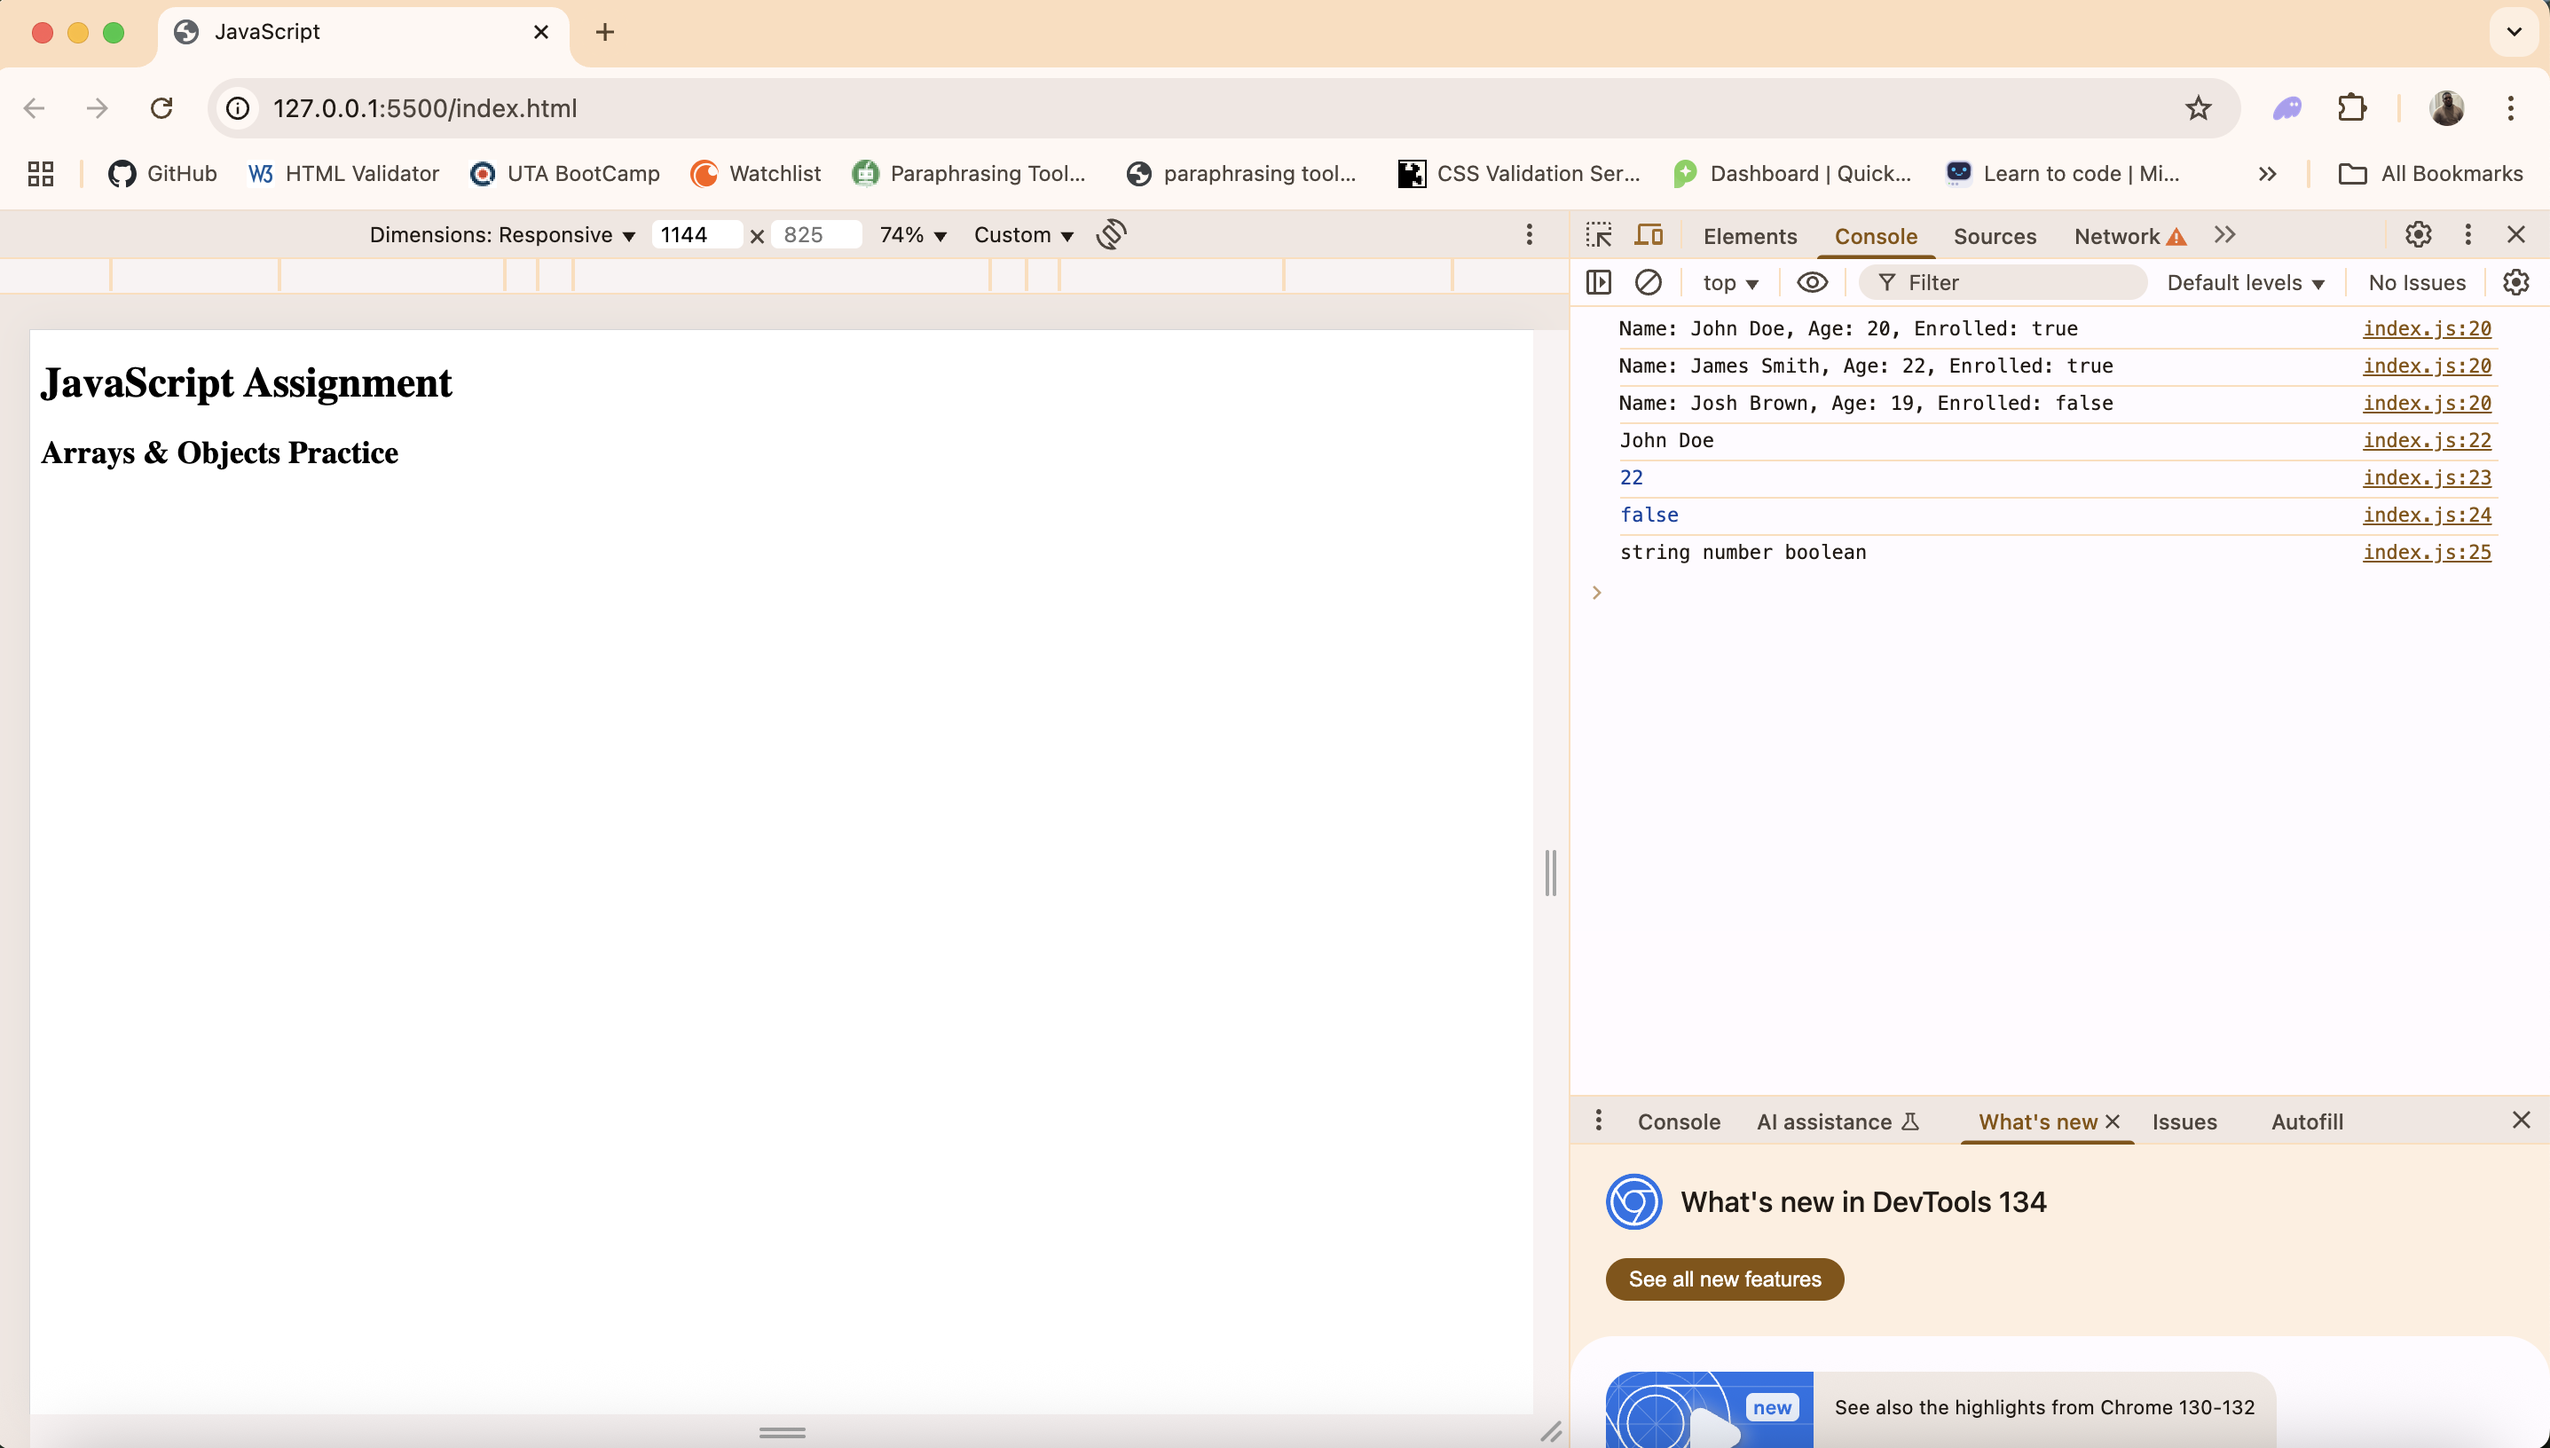
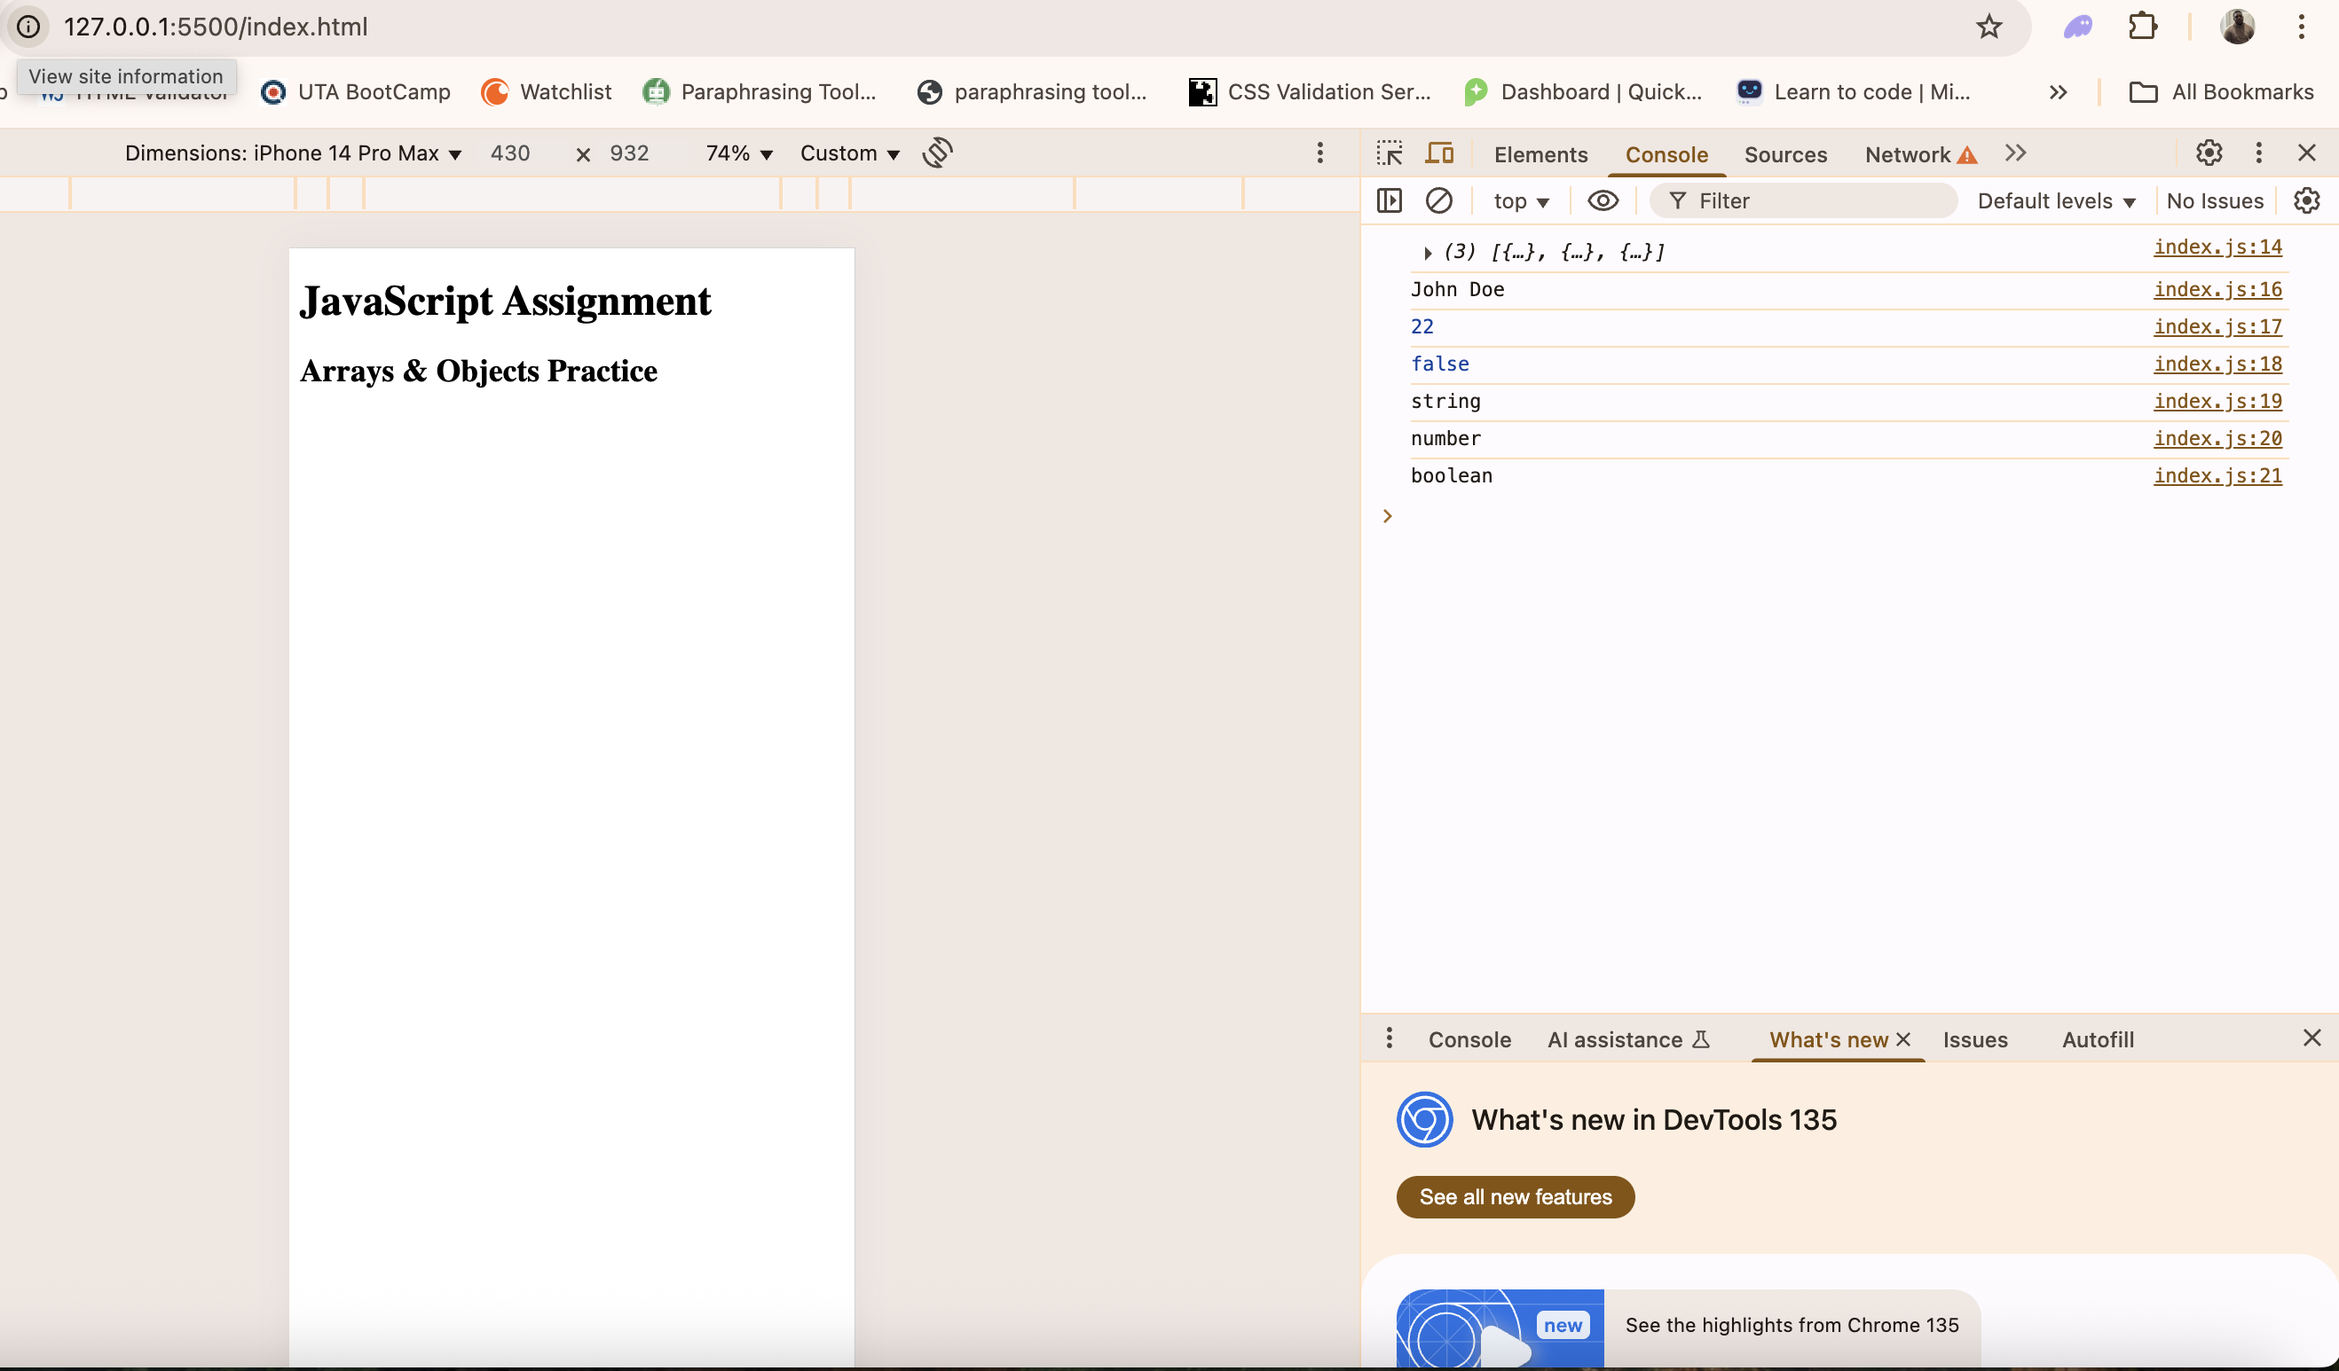
update

diff --git a/index.js b/index.js
@@ -1,25 +1,21 @@
-let student1 ={
-    name: "John Doe",
+let students =[
+    {name: "John Doe",
     age: 20,
-    isEnrolled: true
-};
-let student2 ={
-    name: "James Smith",
+    isEnrolled: true},
+
+    {name: "James Smith",
     age: 22,
-    isEnrolled: true
-};
-let student3 ={
-    name: "Josh Brown",
+    isEnrolled: true},
+
+    {name: "Josh Brown",
     age: 19,
-    isEnrolled: false
-};
+    isEnrolled: false},
+]
+console.log(students);  // this will print the array of students.
 
-let students = [student1, student2, student3];
-
-students.forEach(student => {
-    console.log(`Name: ${student.name}, Age: ${student.age}, Enrolled: ${student.isEnrolled}`);// This will print each student's details
-});
-console.log(student1.name);// this will print the name of student 1.
-console.log(student2.age);// this will print the age of student 2.
-console.log(student3.isEnrolled); //  this is whether student 3 is enrolled or not.
-console.log(typeof student1.name, typeof student1.age, typeof student1.isEnrolled); // this will print the type of each property in student1 object.
+console.log(students[0].name);  // this will print the name of the first student in array.
+console.log(students[1].age);    // this will print the age of second student in array.
+console.log(students[2].isEnrolled); //  this is whether the third student in the array is enrolled or not.
+console.log(typeof students[0].name);   // this will print the type of the name of first student in array.
+console.log(typeof students[1].age);    // this will print the type of the age of second student in array.
+console.log(typeof students[2].isEnrolled); // this will print the type of the isEnrolled of third student in array.
